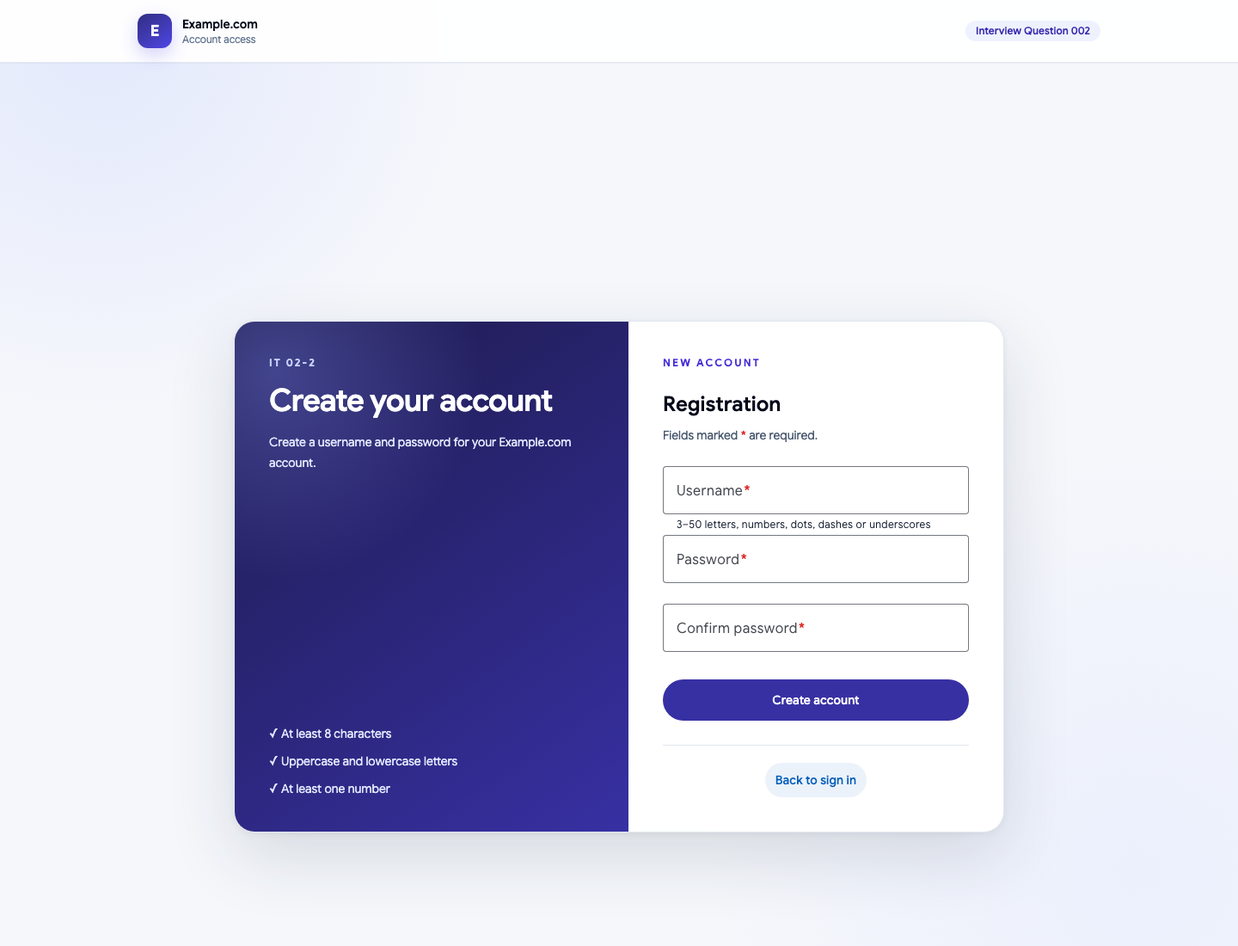
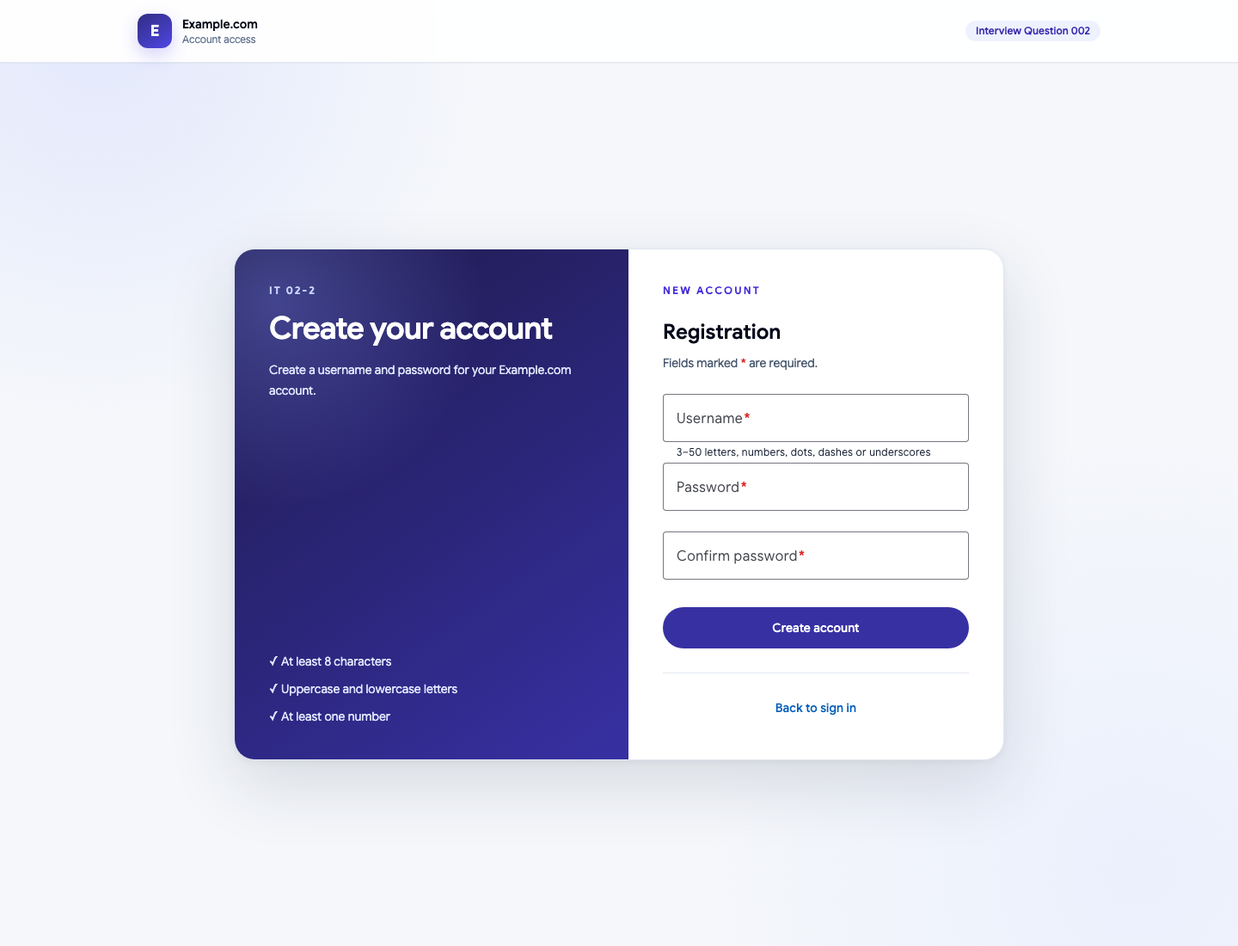
fix: center login and explain invalid sessions

diff --git a/src/client/src/app/app.spec.ts b/src/client/src/app/app.spec.ts
@@ -50,15 +50,17 @@ describe('Authentication UI', () => {
     expect(sessionStorage.getItem(AuthService.tokenKey)).toBe('signed.jwt.value');
   });
 
-  it('clears an unauthorized welcome session', () => {
+  it('clears an unauthorized welcome session and returns an actionable message', () => {
     sessionStorage.setItem(AuthService.tokenKey, 'invalid');
     const router = TestBed.inject(Router);
-    vi.spyOn(router, 'navigateByUrl').mockResolvedValue(true);
+    vi.spyOn(router, 'navigate').mockResolvedValue(true);
     const fixture = TestBed.createComponent(WelcomeComponent);
     fixture.detectChanges();
     const request = http.expectOne('/api/auth/me');
     request.flush({}, { status: 401, statusText: 'Unauthorized' });
     expect(sessionStorage.getItem(AuthService.tokenKey)).toBeNull();
-    expect(router.navigateByUrl).toHaveBeenCalledWith('/login');
+    expect(router.navigate).toHaveBeenCalledWith(['/login'], {
+      state: { error: 'Your session has expired. Please sign in again.' },
+    });
   });
 });

diff --git a/src/client/src/app/welcome.component.ts b/src/client/src/app/welcome.component.ts
@@ -86,7 +86,12 @@ export class WelcomeComponent implements OnInit {
         this.username.set(username);
         this.loading.set(false);
       },
-      error: () => this.signOut(),
+      error: () => {
+        this.auth.logout();
+        this.router.navigate(['/login'], {
+          state: { error: 'Your session has expired. Please sign in again.' },
+        });
+      },
     });
   }
   signOut(): void {

diff --git a/src/client/src/app/login.component.ts b/src/client/src/app/login.component.ts
@@ -148,7 +148,7 @@ export const sharedStyles = `
 export class LoginComponent {
   readonly showPassword = signal(false);
   readonly busy = signal(false);
-  readonly error = signal<string | null>(null);
+  readonly error = signal((history.state?.['error'] as string | undefined) ?? null);
   readonly message = signal((history.state?.['message'] as string | undefined) ?? null);
   readonly form;
 

diff --git a/src/client/src/app/app.html b/src/client/src/app/app.html
@@ -22,5 +22,5 @@
 <main
   class="mx-auto grid min-h-[calc(100vh-73px)] w-[min(1120px,calc(100%-2rem))] place-items-center py-8 md:py-12"
 >
-  <router-outlet />
+  <router-outlet class="hidden" />
 </main>

diff --git a/documentation/09-qa-and-test/01-authentication/playwright-test-result.md b/documentation/09-qa-and-test/01-authentication/playwright-test-result.md
@@ -2,7 +2,7 @@
 doc_id: QAT-AUTH2-04
 module: AUTH2
 type: playwright-test-result
-generated_at: 2026-08-18T13:10:08.265Z
+generated_at: 2026-08-18T13:34:53.352Z
 ---
 
 # QAT-AUTH2-04 — ผลทดสอบ Playwright
@@ -21,28 +21,29 @@ generated_at: 2026-08-18T13:10:08.265Z
 
 | ทั้งหมด | ผ่าน | ไม่ผ่าน | สถานะ |
 | ------: | ---: | ------: | ----- |
-|      16 |   16 |       0 | PASS  |
+|      17 |   17 |       0 | PASS  |
 
 ## ผลรายกรณี
 
 | Test Case ID      | ชื่อกรณีทดสอบ                                               | ประเภท     | ผล   | เวลา (ms) | Screenshot                                   |
 | ----------------- | ----------------------------------------------------------- | ---------- | ---- | --------: | -------------------------------------------- |
-| TC-AUTH2-E2E-001  | เปิดหน้าสมัครสมาชิกตาม IT 02-2                              | Functional | PASS |       298 | [เปิดภาพ](screenshots/tc-auth2-e2e-001.png)  |
-| TC-AUTH2-E2E-002  | สมัครสมาชิกและกลับหน้าเข้าสู่ระบบ                           | Functional | PASS |       503 | [เปิดภาพ](screenshots/tc-auth2-e2e-002.png)  |
-| TC-AUTH2-E2E-003  | เข้าสู่ระบบและแสดงชื่อหลังตรวจ JWT                          | Functional | PASS |       431 | [เปิดภาพ](screenshots/tc-auth2-e2e-003.png)  |
-| TC-AUTH2-E2E-004  | ออกจากระบบและลบ token                                       | Functional | PASS |       374 | [เปิดภาพ](screenshots/tc-auth2-e2e-004.png)  |
-| TC-AUTH2-VAL-001  | ปฏิเสธฟอร์มเข้าสู่ระบบว่างโดยไม่เรียก API                   | Validation | PASS |       255 | [เปิดภาพ](screenshots/tc-auth2-val-001.png)  |
-| TC-AUTH2-VAL-002  | ปฏิเสธรหัสผ่านยืนยันไม่ตรงกัน                               | Validation | PASS |       309 | [เปิดภาพ](screenshots/tc-auth2-val-002.png)  |
-| TC-AUTH2-VAL-003  | ปฏิเสธ Username ซ้ำแบบไม่แยกตัวพิมพ์                        | Validation | PASS |       381 | [เปิดภาพ](screenshots/tc-auth2-val-003.png)  |
-| TC-AUTH2-VAL-004  | ปฏิเสธรหัสผ่านที่ไม่ผ่านกฎบนหน้าสมัคร                       | Validation | PASS |       324 | [เปิดภาพ](screenshots/tc-auth2-val-004.png)  |
-| TC-AUTH2-VAL-005  | API สมัครสมาชิกตอบ Problem Details เมื่อ payload ไม่ถูกต้อง | Validation | PASS |       209 | [เปิดภาพ](screenshots/tc-auth2-val-005.png)  |
-| SEC-AUTH2-001     | ปิดบังฟิลด์รหัสผ่านทุกช่อง                                  | Security   | PASS |       247 | [เปิดภาพ](screenshots/sec-auth2-001.png)     |
-| SEC-AUTH2-002     | ปฏิเสธ API me เมื่อไม่มี JWT                                | Security   | PASS |       203 | [เปิดภาพ](screenshots/sec-auth2-002.png)     |
-| SEC-AUTH2-006     | ปฏิเสธ API me เมื่อ JWT ไม่ถูกต้อง                          | Security   | PASS |       203 | [เปิดภาพ](screenshots/sec-auth2-006.png)     |
-| SEC-AUTH2-003     | ใช้ข้อความกลางเมื่อข้อมูลรับรองผิด                          | Security   | PASS |       326 | [เปิดภาพ](screenshots/sec-auth2-003.png)     |
-| SEC-AUTH2-004     | ส่ง security headers ผ่าน Nginx                             | Security   | PASS |       217 | [เปิดภาพ](screenshots/sec-auth2-004.png)     |
-| TC-AUTH2-RESP-001 | ทุกหน้ารองรับ viewport มือถือ                               | Responsive | PASS |       367 | [เปิดภาพ](screenshots/tc-auth2-resp-001.png) |
-| SEC-AUTH2-005     | จำกัดอัตราคำขอเข้าสู่ระบบ                                   | Security   | PASS |       407 | [เปิดภาพ](screenshots/sec-auth2-005.png)     |
+| TC-AUTH2-E2E-001  | เปิดหน้าสมัครสมาชิกตาม IT 02-2                              | Functional | PASS |       404 | [เปิดภาพ](screenshots/tc-auth2-e2e-001.png)  |
+| TC-AUTH2-E2E-002  | สมัครสมาชิกและกลับหน้าเข้าสู่ระบบ                           | Functional | PASS |       492 | [เปิดภาพ](screenshots/tc-auth2-e2e-002.png)  |
+| TC-AUTH2-E2E-003  | เข้าสู่ระบบและแสดงชื่อหลังตรวจ JWT                          | Functional | PASS |       409 | [เปิดภาพ](screenshots/tc-auth2-e2e-003.png)  |
+| TC-AUTH2-E2E-004  | ออกจากระบบและลบ token                                       | Functional | PASS |       365 | [เปิดภาพ](screenshots/tc-auth2-e2e-004.png)  |
+| TC-AUTH2-VAL-001  | ปฏิเสธฟอร์มเข้าสู่ระบบว่างโดยไม่เรียก API                   | Validation | PASS |       237 | [เปิดภาพ](screenshots/tc-auth2-val-001.png)  |
+| TC-AUTH2-VAL-002  | ปฏิเสธรหัสผ่านยืนยันไม่ตรงกัน                               | Validation | PASS |       284 | [เปิดภาพ](screenshots/tc-auth2-val-002.png)  |
+| TC-AUTH2-VAL-003  | ปฏิเสธ Username ซ้ำแบบไม่แยกตัวพิมพ์                        | Validation | PASS |       356 | [เปิดภาพ](screenshots/tc-auth2-val-003.png)  |
+| TC-AUTH2-VAL-004  | ปฏิเสธรหัสผ่านที่ไม่ผ่านกฎบนหน้าสมัคร                       | Validation | PASS |       287 | [เปิดภาพ](screenshots/tc-auth2-val-004.png)  |
+| TC-AUTH2-VAL-005  | API สมัครสมาชิกตอบ Problem Details เมื่อ payload ไม่ถูกต้อง | Validation | PASS |       198 | [เปิดภาพ](screenshots/tc-auth2-val-005.png)  |
+| SEC-AUTH2-001     | ปิดบังฟิลด์รหัสผ่านทุกช่อง                                  | Security   | PASS |       240 | [เปิดภาพ](screenshots/sec-auth2-001.png)     |
+| SEC-AUTH2-002     | ปฏิเสธ API me เมื่อไม่มี JWT                                | Security   | PASS |       191 | [เปิดภาพ](screenshots/sec-auth2-002.png)     |
+| SEC-AUTH2-006     | ปฏิเสธ JWT ไม่ถูกต้องและแจ้งให้เข้าสู่ระบบใหม่              | Security   | PASS |       235 | [เปิดภาพ](screenshots/sec-auth2-006.png)     |
+| SEC-AUTH2-003     | ใช้ข้อความกลางเมื่อข้อมูลรับรองผิด                          | Security   | PASS |       325 | [เปิดภาพ](screenshots/sec-auth2-003.png)     |
+| SEC-AUTH2-004     | ส่ง security headers ผ่าน Nginx                             | Security   | PASS |       207 | [เปิดภาพ](screenshots/sec-auth2-004.png)     |
+| TC-AUTH2-RESP-001 | ทุกหน้ารองรับ viewport มือถือ                               | Responsive | PASS |       355 | [เปิดภาพ](screenshots/tc-auth2-resp-001.png) |
+| TC-AUTH2-RESP-002 | การ์ด Login อยู่กึ่งกลางพื้นที่ใต้ส่วนหัว                   | Responsive | PASS |       196 | [เปิดภาพ](screenshots/tc-auth2-resp-002.png) |
+| SEC-AUTH2-005     | จำกัดอัตราคำขอเข้าสู่ระบบ                                   | Security   | PASS |       402 | [เปิดภาพ](screenshots/sec-auth2-005.png)     |
 
 ## ภาพหลักฐาน
 
@@ -90,9 +91,9 @@ generated_at: 2026-08-18T13:10:08.265Z
 
 ![SEC-AUTH2-002 — ปฏิเสธ API me เมื่อไม่มี JWT](screenshots/sec-auth2-002.png)
 
-### SEC-AUTH2-006 — ปฏิเสธ API me เมื่อ JWT ไม่ถูกต้อง
+### SEC-AUTH2-006 — ปฏิเสธ JWT ไม่ถูกต้องและแจ้งให้เข้าสู่ระบบใหม่
 
-![SEC-AUTH2-006 — ปฏิเสธ API me เมื่อ JWT ไม่ถูกต้อง](screenshots/sec-auth2-006.png)
+![SEC-AUTH2-006 — ปฏิเสธ JWT ไม่ถูกต้องและแจ้งให้เข้าสู่ระบบใหม่](screenshots/sec-auth2-006.png)
 
 ### SEC-AUTH2-003 — ใช้ข้อความกลางเมื่อข้อมูลรับรองผิด
 
@@ -105,6 +106,10 @@ generated_at: 2026-08-18T13:10:08.265Z
 ### TC-AUTH2-RESP-001 — ทุกหน้ารองรับ viewport มือถือ
 
 ![TC-AUTH2-RESP-001 — ทุกหน้ารองรับ viewport มือถือ](screenshots/tc-auth2-resp-001.png)
+
+### TC-AUTH2-RESP-002 — การ์ด Login อยู่กึ่งกลางพื้นที่ใต้ส่วนหัว
+
+![TC-AUTH2-RESP-002 — การ์ด Login อยู่กึ่งกลางพื้นที่ใต้ส่วนหัว](screenshots/tc-auth2-resp-002.png)
 
 ### SEC-AUTH2-005 — จำกัดอัตราคำขอเข้าสู่ระบบ
 

diff --git a/documentation/09-qa-and-test/01-authentication/verification-report-2026-08-18.md b/documentation/09-qa-and-test/01-authentication/verification-report-2026-08-18.md
@@ -2,7 +2,7 @@
 doc_id: QAT-AUTH2-08
 module: AUTH2
 type: verification-report
-verified_at: 2026-08-18T13:10:08Z
+verified_at: 2026-08-18T13:34:53Z
 ---
 
 # รายงานผลตรวจวันที่ 18 สิงหาคม 2026
@@ -11,8 +11,8 @@ verified_at: 2026-08-18T13:10:08Z
 | ------------------------ | ----------------------------------------------------------------------------------------- |
 | xUnit                    | ผ่าน 15/15                                                                                |
 | Angular Vitest           | ผ่าน 4/4                                                                                  |
-| Playwright Chromium      | ผ่าน 16/16; รายงานสร้าง 20:10:08 น. และมีภาพ 16 ไฟล์                                      |
-| Angular production build | ผ่าน; initial bundle 479.63 kB                                                            |
+| Playwright Chromium      | ผ่าน 17/17; รายงานสร้าง 20:34:53 น. และมีภาพ 17 ไฟล์                                      |
+| Angular production build | ผ่าน; initial bundle 483.84 kB                                                            |
 | NuGet vulnerability scan | ไม่พบแพ็กเกจที่มีช่องโหว่จากแหล่งปัจจุบัน                                                 |
 | npm audit                | ไม่พบช่องโหว่                                                                             |
 | OrbStack                 | client, API และ PostgreSQL ทำงานครบ; PostgreSQL healthy                                   |
@@ -20,10 +20,10 @@ verified_at: 2026-08-18T13:10:08Z
 | Authentication flow      | Register `201`, Login ได้ signed JWT และ `/me` ตอบชื่อผู้ใช้                              |
 | PostgreSQL               | มี `auth_q002.users` และ migration history ใน schema เดียวกัน                             |
 | Password storage         | ตรวจ 30 บัญชีทดสอบ ไม่พบ plaintext หรือค่าที่ไม่ใช่รูปแบบ PasswordHasher                  |
-| JWT                      | ตรวจ signature, issuer, audience, lifetime, raw `unique_name` claim และการปฏิเสธ token ผิดสำเร็จ |
+| JWT                      | token ผิดได้ `401`, ถูกลบจาก sessionStorage, กลับ Login และแสดงข้อความให้เข้าใหม่ |
 | OWASP                    | password hash, generic error, authorization, rate limit และ security headers ผ่าน         |
 | Runtime independence     | client, API และ PostgreSQL เริ่มต้นได้จาก compose ของ repository นี้โดยไม่พึ่ง API ภายนอก |
-| Visual QA                | Desktop/Mobile แสดง `Welcome User: xxx` โดยไม่มีศัพท์ implementation บน UI                |
+| Visual QA                | การ์ด Login กึ่งกลางพื้นที่ใต้ส่วนหัวคลาดเคลื่อนไม่เกิน 1 CSS pixel; ข้อความ session ไม่มีศัพท์เทคนิค |
 
 ## ตำแหน่งหลักฐาน
 

diff --git a/design-qa.md b/design-qa.md
@@ -1,0 +1,43 @@
+# Design QA — Login centering and invalid-session feedback
+
+## Evidence
+
+- Source visual truth: `documentation/09-qa-and-test/01-authentication/screenshots/design-reference-login-offset.png`
+- Implementation: `documentation/09-qa-and-test/01-authentication/screenshots/tc-auth2-resp-002.png`
+- Combined comparison: `documentation/09-qa-and-test/01-authentication/screenshots/design-qa-login-centering-comparison.png`
+- Invalid-session state: `documentation/09-qa-and-test/01-authentication/screenshots/sec-auth2-006.png`
+- Viewport and CSS size: 1440×1100 px at device scale factor 1
+- Source pixels: 1440×1100; implementation pixels: 1440×1100; no density normalization required
+- Compared state: desktop `/login`; invalid-session feedback inspected separately because the source visual contains the default Login state
+
+## Findings
+
+No actionable P0, P1, or P2 findings remain.
+
+- Fonts and typography: Google Sans, weights, hierarchy, wrapping, and control text remain consistent with the source.
+- Spacing and layout rhythm: the source card was about 98 px below the center of the content area. After hiding the inactive `router-outlet` grid item, the card measures top 317 px, height 539 px, center 586.5 px; the area below the 73 px header also centers at 586.5 px. Delta is 0 CSS px.
+- Colors and visual tokens: indigo surfaces, pale background, borders, shadows, and semantic red error treatment remain consistent.
+- Image quality and asset fidelity: no photographic or generated image assets occur in this screen; the existing brand mark and all existing visual treatments are preserved.
+- Copy and content: the default Login copy is unchanged. Invalid sessions now show `Your session has expired. Please sign in again.` without exposing JWT or other implementation terminology.
+
+Focused comparison was required only for the invalid-session state. Its screenshot confirms the error message is visible above the form, remains readable, and does not disturb the two-column card layout.
+
+## Comparison History
+
+1. P2 — Login card appeared below the vertical center because the visible routed component and the inactive `router-outlet` were both grid items.
+2. Fix — applied Tailwind `hidden` to `router-outlet` while retaining `grid place-items-center` on the area below the header; no fixed top offset was introduced.
+3. Post-fix evidence — `TC-AUTH2-RESP-002` passed with a measured center delta of 0 CSS px; the combined comparison shows the intentional upward correction with all other design surfaces preserved.
+4. Session feedback — `SEC-AUTH2-006` passed, including API `401`, token removal, Login redirect, neutral user-facing error text, and absence of JWT wording. Browser console errors: 0.
+
+## Implementation Checklist
+
+- [x] Center Login card within the area below the header using layout utilities.
+- [x] Avoid fixed top margin or padding as the centering mechanism.
+- [x] Show an actionable, non-technical message after an invalid session.
+- [x] Verify default, invalid-session, responsive, and security flows through Playwright.
+
+## Follow-up Polish
+
+No remaining P3 item is required for this change.
+
+final result: passed

diff --git a/documentation/09-qa-and-test/01-authentication/playwright-test-cases.md b/documentation/09-qa-and-test/01-authentication/playwright-test-cases.md
@@ -74,10 +74,10 @@ type: playwright-test-case
 - Test Step: เรียก `GET /api/auth/me` โดยไม่มี Authorization header
 - ผลที่คาดหวัง: API ตอบ `401 Unauthorized`
 
-### SEC-AUTH2-006 — ปฏิเสธ API me เมื่อ JWT ไม่ถูกต้อง
+### SEC-AUTH2-006 — ปฏิเสธ JWT ไม่ถูกต้องและแจ้งให้เข้าสู่ระบบใหม่
 
-- Test Step: เรียก `GET /api/auth/me` ด้วย `Authorization: Bearer invalid.token.value`
-- ผลที่คาดหวัง: API ตอบ `401 Unauthorized` และไม่แสดงข้อมูลผู้ใช้
+- Test Step: 1) เก็บ `invalid.token.value` ใน sessionStorage 2) เปิด `/welcome` 3) ตรวจ response ของ `/api/auth/me` 4) ตรวจ route, ข้อความแจ้ง และ sessionStorage
+- ผลที่คาดหวัง: API ตอบ `401`, ลบ token, กลับ `/login`, แสดง `Your session has expired. Please sign in again.` และไม่แสดงคำว่า JWT ในหน้า
 
 ### SEC-AUTH2-003 — ใช้ข้อความกลางเมื่อข้อมูลรับรองผิด
 
@@ -101,3 +101,9 @@ type: playwright-test-case
 - เงื่อนไขก่อนทดสอบ: viewport 390×844 และมีบัญชีทดสอบ
 - Test Step: เปิด Login, Register และ Welcome แล้วเทียบ `scrollWidth` กับความกว้าง viewport
 - ผลที่คาดหวัง: ทั้งสามหน้าไม่ล้นแนวนอนและแสดง `Welcome User: xxx` หลัง Login
+
+### TC-AUTH2-RESP-002 — การ์ด Login อยู่กึ่งกลางพื้นที่ใต้ส่วนหัว
+
+- เงื่อนไขก่อนทดสอบ: viewport 1440×1100 และเปิด `/login`
+- Test Step: 1) อ่านขอบเขตส่วนหัวและการ์ด 2) คำนวณจุดกึ่งกลางของพื้นที่จากขอบล่างส่วนหัวถึงขอบล่าง viewport 3) เปรียบเทียบกับจุดกึ่งกลางการ์ด
+- ผลที่คาดหวัง: จุดกึ่งกลางแนวตั้งต่างกันไม่เกิน 1 CSS pixel โดยไม่ใช้ระยะด้านบนแบบตายตัว

diff --git a/documentation/05-ui-desc/01-authentication/uis-auth2-01-auth-screens.md b/documentation/05-ui-desc/01-authentication/uis-auth2-01-auth-screens.md
@@ -6,11 +6,13 @@ type: ui-specification
 
 # ข้อกำหนด UI
 
-- Layout เป็นการ์ดเข้าสู่ระบบกึ่งกลาง มีตรา Example.com และชื่อ Question 002
+- Layout เป็นการ์ดเข้าสู่ระบบกึ่งกลางพื้นที่ใต้ส่วนหัว มีตรา Example.com และชื่อ Question 002
+- จัดกึ่งกลางด้วย Tailwind CSS `grid place-items-center` บนพื้นที่ `min-h-[calc(100vh-73px)]`; ซ่อน `router-outlet` ด้วย `hidden` เพื่อไม่ให้ถูกนับเป็นแถวว่าง และห้ามกำหนดระยะจากด้านบนแบบตายตัว
 - IT 02-1 มี Username, Password, ปุ่ม Sign in และลิงก์ Create account
 - IT 02-2 มี Username, Password, Confirm password, ปุ่ม Create account และกลับ Sign in
 - IT 02-3 มีหัวข้อ Welcome, ข้อความ `Welcome User: {username}` จาก API และปุ่ม Sign out
 - UI ไม่แสดงศัพท์ implementation เช่น JWT, hash, signature, issuer, audience หรือ lifetime แก่ผู้ใช้
+- เมื่อ session ใช้งานไม่ได้ ให้ลบ token กลับหน้า Login และแสดง `Your session has expired. Please sign in again.` โดยไม่ระบุศัพท์ทางเทคนิค
 - ฟิลด์บังคับใช้ดอกจันและคำชี้แจงเดียวกัน
 - Password ใช้ Material input และปุ่มแสดง/ซ่อนที่ใช้ด้วย keyboard ได้
 - ทุกหน้ารองรับ 390px โดยไม่มีการล้นแนวนอน

diff --git a/documentation/01-requirements/01-authentication/acceptance-criteria/ac-auth2-01-auth-flow.md b/documentation/01-requirements/01-authentication/acceptance-criteria/ac-auth2-01-auth-flow.md
@@ -10,5 +10,7 @@ type: acceptance-criteria
 - สมัครชื่อซ้ำได้ `409`; payload ไม่ถูกต้องได้ `400` แบบ Problem Details
 - เข้าสู่ระบบถูกต้องได้ JWT; ข้อมูลผิดได้ `401` ด้วยข้อความกลาง
 - `GET /api/auth/me` ไม่มี token หรือ token ผิดได้ `401`; token ถูกต้องได้ชื่อผู้ใช้
+- หาก token ที่เก็บไว้ใช้งานไม่ได้ หน้า Welcome ต้องลบ token กลับ Login และแจ้งให้เข้าสู่ระบบใหม่โดยไม่แสดงศัพท์ทางเทคนิค
+- ที่ viewport desktop การ์ด Login ต้องอยู่กึ่งกลางแนวตั้งของพื้นที่ใต้ส่วนหัว ไม่ใช้ระยะด้านบนแบบตายตัว
 - หน้า Welcome แสดง `Welcome User: {username}` โดยใช้ชื่อจาก `/api/auth/me` ไม่ใช่ข้อมูลที่ฝั่งหน้าเว็บเชื่อเอง
 - ระบบต้องเริ่มต้นและทำงานได้โดยไม่พึ่ง API ของระบบธุรกิจภายนอก

diff --git a/README.md b/README.md
@@ -131,7 +131,7 @@ Latest verified result:
 
 - xUnit: 15/15 passed
 - Angular Unit Test: 4/4 passed
-- Playwright Chromium: 12/12 passed with 12 screenshots
+- Playwright Chromium: 17/17 passed with 17 screenshots
 - Angular production build: passed
 - NuGet vulnerability scan and npm audit: no known vulnerabilities from the configured sources
 
@@ -157,5 +157,7 @@ Latest verified result:
 - ผู้ตรวจ API/ฐานข้อมูล: `03-domain-data → 04-arch-desc → 06-api-contract → 09-qa-and-test`
 - ผู้ตรวจ UI: `05-ui-desc → 06-api-contract → 09-qa-and-test`
 - ผู้ตรวจความมั่นคงปลอดภัย: `01-requirements/quality-attributes → 08-security-arch → 09-qa-and-test/security-test-plan.md`
+
+ผลเปรียบเทียบตำแหน่งการ์ด Login กับภาพก่อนแก้อยู่ใน [`design-qa.md`](design-qa.md)
 
 Test Step อยู่ที่ [`playwright-test-cases.md`](documentation/09-qa-and-test/01-authentication/playwright-test-cases.md), ผลและภาพล่าสุดอยู่ที่ [`playwright-test-result.md`](documentation/09-qa-and-test/01-authentication/playwright-test-result.md), และผล Unit Test อยู่ที่ [`unit-test-result.md`](documentation/09-qa-and-test/01-authentication/unit-test-result.md)
